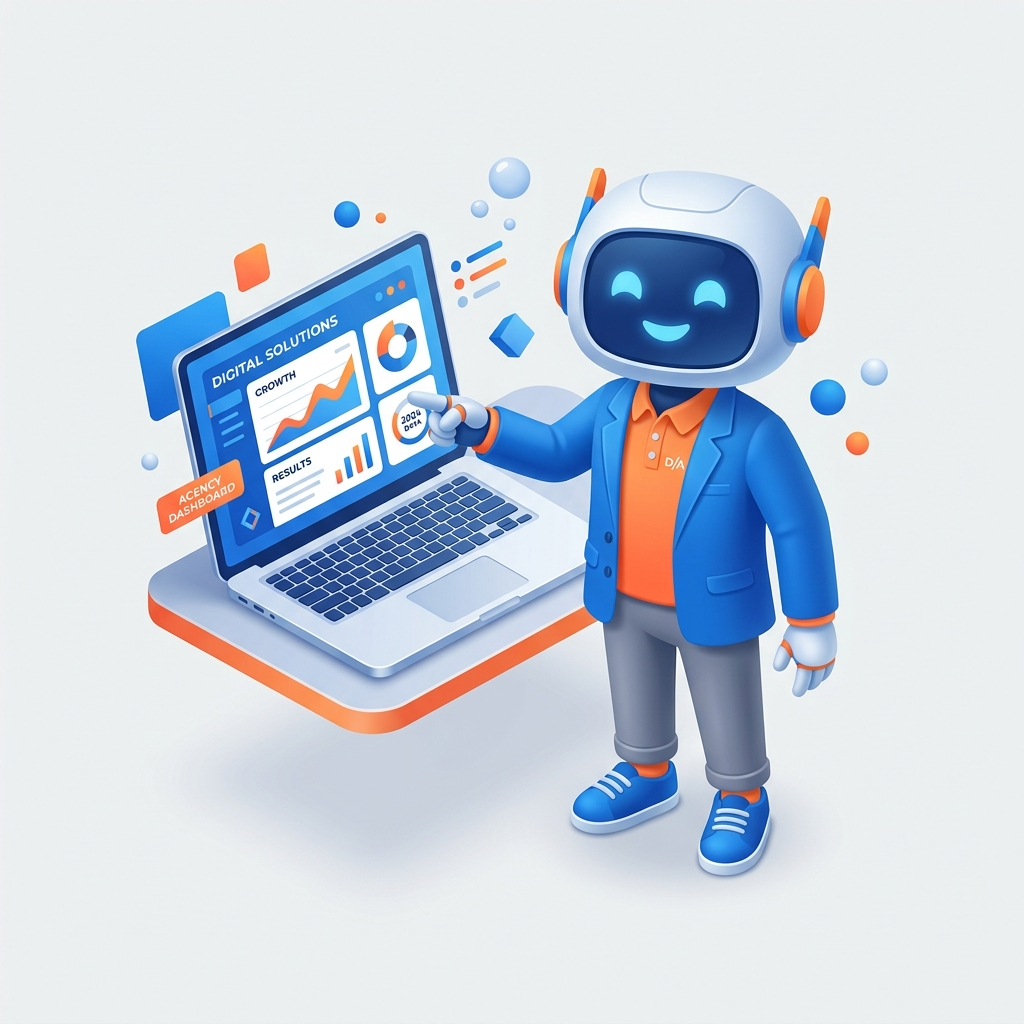
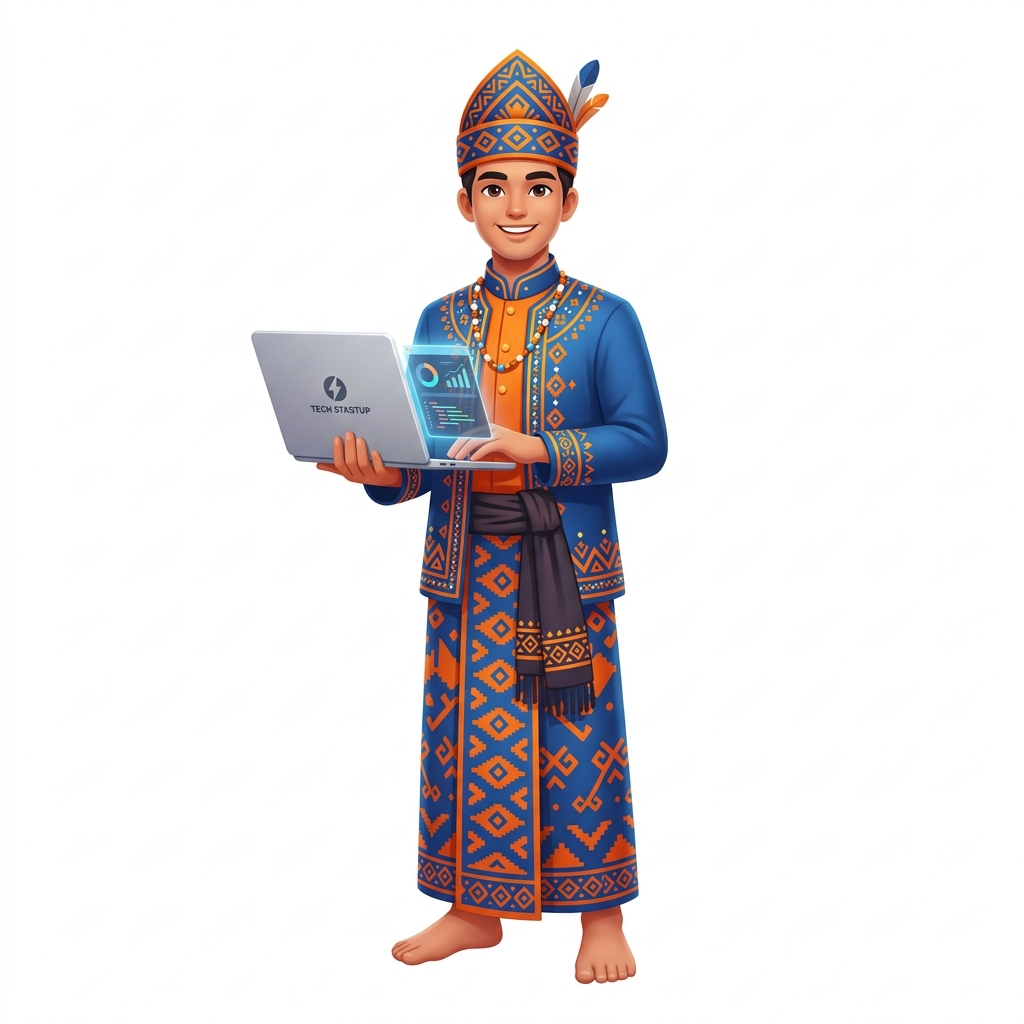
style: update mascot to use Kutai traditional theme and remove background

diff --git a/src/pages/Home.jsx b/src/pages/Home.jsx
@@ -31,7 +31,7 @@ export default function Home() {
             <div className="red-brush-bg" style={{ top: '-10%', right: '-10%', width: '120%', height: '120%', background: 'radial-gradient(circle, var(--primary) 0%, transparent 70%)' }}></div>
             {/* Using a mockup image placeholder structure */}
             <div className="card" style={{ padding: '0', borderRadius: '1rem', overflow: 'hidden', boxShadow: 'var(--shadow-lg)' }}>
-              <img src="/hero-character.png" alt="Kawakita Mascot" style={{ display: 'block', width: '100%', objectFit: 'cover' }} />
+              <img src="/hero-character.png" alt="Kawakita Mascot Kutai" style={{ display: 'block', width: '100%', objectFit: 'cover', mixBlendMode: 'multiply' }} />
             </div>
           </div>
         </div>
